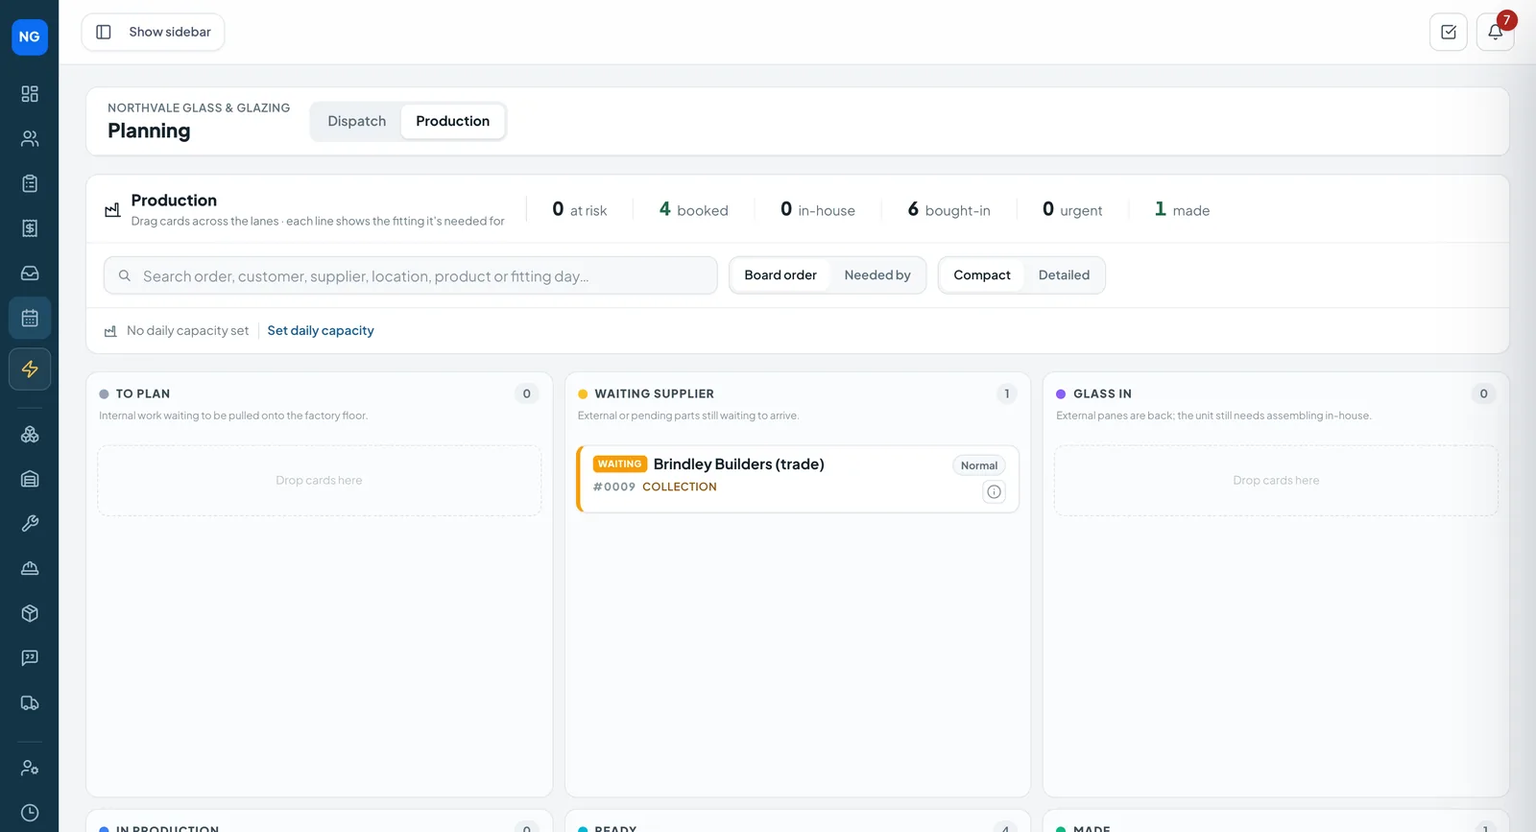
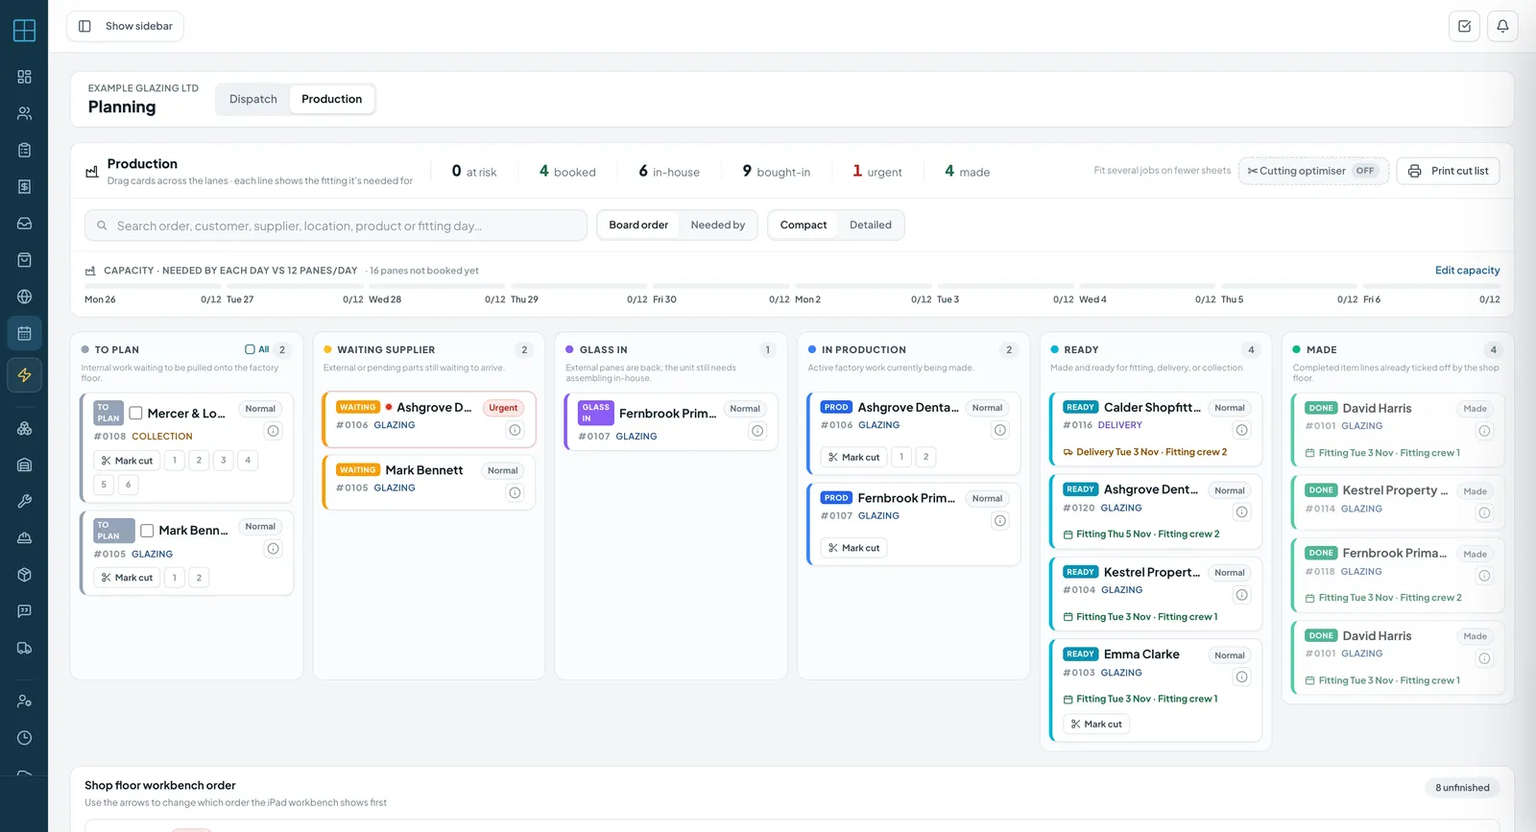
Replace website screenshots with fresh captures from the demo (Example Glazing Ltd)
New captures from demo.coglass.app (read-only), Tue 3 Nov 2026 launch week:
production board with cards in all six lanes, vehicles with 3 vans and MOT
dates, planner day view, iPad week view, orders list, work bench with the
drawing beside the line, tracking page, quote + matching invoice PDFs for
order 0101 / INV-0042. Re-rendered og-image.png (coglass.net).

IMG sizes and alt text updated; home-page PDF figures now read sizes from IMG.

diff --git a/au/index.html b/au/index.html
@@ -92,7 +92,7 @@
       <ul class="checks"><li>Full double- and triple-glazed unit make-ups, cavity set per line</li><li>Edgework, toughening, laminating — in-house or bought in</li><li>Trade price lists and quantity breaks applied automatically</li></ul>
       <a class="btn" href="/coglass-feature-glass-specs.html">See glass specs</a>
     </div>
-    <div class="framed"><img src="/assets/img/bench-drawing.webp" alt="An arched double-glazed unit on the work bench, drawn with Georgian bars and two drilled holes" width="1400" height="638" loading="lazy" decoding="async"></div>
+    <div class="framed"><img src="/assets/img/bench-drawing.webp" alt="A double-glazed unit on the work bench, with its drawing open beside the line: Georgian bars 3×2 and two drilled holes" width="1400" height="638" loading="lazy" decoding="async"></div>
   </div>
 </section>
 <section class="sect">
@@ -104,7 +104,7 @@
       <ul class="checks"><li>Barcode labels for every pane</li><li>Sealed-unit steps checked pane by pane</li><li>Keeps working when the workshop wifi drops</li></ul>
       <a class="btn" href="/coglass-feature-production.html">See production</a>
     </div>
-    <div class="framed"><img src="/assets/img/production.webp" alt="The production board with lanes from To plan to Made" width="1600" height="867" loading="lazy" decoding="async"></div>
+    <div class="framed"><img src="/assets/img/production.webp" alt="The production board with jobs in every lane, from To plan to Made" width="1600" height="867" loading="lazy" decoding="async"></div>
   </div>
 </section>
 <section class="sect alt">
@@ -116,7 +116,7 @@
       <ul class="checks"><li>Quotes, the planner and invoices in the browser</li><li>Cut list, scan to advance and sealed-unit steps in the workshop</li><li>Counter sales signed for on screen</li></ul>
       <a class="btn" href="/coglass-ipad.html">Coglass on the iPad</a>
     </div>
-    <div class="ipad-frame"><img src="/assets/img/ipad-planner.webp" alt="The Coglass planner open in a browser at iPad size: a day of fittings, surveys and a delivery across three people" width="1600" height="1112" loading="lazy" decoding="async"></div>
+    <div class="ipad-frame"><img src="/assets/img/ipad-planner.webp" alt="The Coglass planner open in a browser at iPad size: a week of fittings, surveys and a delivery across three teams" width="1600" height="1112" loading="lazy" decoding="async"></div>
   </div>
 </section>
 <section class="sect alt" id="features">

diff --git a/bw/index.html b/bw/index.html
@@ -92,7 +92,7 @@
       <ul class="checks"><li>Full double- and triple-glazed unit make-ups, cavity set per line</li><li>Edgework, toughening, laminating — in-house or bought in</li><li>Trade price lists and quantity breaks applied automatically</li></ul>
       <a class="btn" href="/coglass-feature-glass-specs.html">See glass specs</a>
     </div>
-    <div class="framed"><img src="/assets/img/bench-drawing.webp" alt="An arched double-glazed unit on the work bench, drawn with Georgian bars and two drilled holes" width="1400" height="638" loading="lazy" decoding="async"></div>
+    <div class="framed"><img src="/assets/img/bench-drawing.webp" alt="A double-glazed unit on the work bench, with its drawing open beside the line: Georgian bars 3×2 and two drilled holes" width="1400" height="638" loading="lazy" decoding="async"></div>
   </div>
 </section>
 <section class="sect">
@@ -104,7 +104,7 @@
       <ul class="checks"><li>Barcode labels for every pane</li><li>Sealed-unit steps checked pane by pane</li><li>Keeps working when the workshop wifi drops</li></ul>
       <a class="btn" href="/coglass-feature-production.html">See production</a>
     </div>
-    <div class="framed"><img src="/assets/img/production.webp" alt="The production board with lanes from To plan to Made" width="1600" height="867" loading="lazy" decoding="async"></div>
+    <div class="framed"><img src="/assets/img/production.webp" alt="The production board with jobs in every lane, from To plan to Made" width="1600" height="867" loading="lazy" decoding="async"></div>
   </div>
 </section>
 <section class="sect alt">
@@ -116,7 +116,7 @@
       <ul class="checks"><li>Quotes, the planner and invoices in the browser</li><li>Cut list, scan to advance and sealed-unit steps in the workshop</li><li>Counter sales signed for on screen</li></ul>
       <a class="btn" href="/coglass-ipad.html">Coglass on the iPad</a>
     </div>
-    <div class="ipad-frame"><img src="/assets/img/ipad-planner.webp" alt="The Coglass planner open in a browser at iPad size: a day of fittings, surveys and a delivery across three people" width="1600" height="1112" loading="lazy" decoding="async"></div>
+    <div class="ipad-frame"><img src="/assets/img/ipad-planner.webp" alt="The Coglass planner open in a browser at iPad size: a week of fittings, surveys and a delivery across three teams" width="1600" height="1112" loading="lazy" decoding="async"></div>
   </div>
 </section>
 <section class="sect alt" id="features">

diff --git a/ie/index.html b/ie/index.html
@@ -92,7 +92,7 @@
       <ul class="checks"><li>Full double- and triple-glazed unit make-ups, cavity set per line</li><li>Edgework, toughening, laminating — in-house or bought in</li><li>Trade price lists and quantity breaks applied automatically</li></ul>
       <a class="btn" href="/coglass-feature-glass-specs.html">See glass specs</a>
     </div>
-    <div class="framed"><img src="/assets/img/bench-drawing.webp" alt="An arched double-glazed unit on the work bench, drawn with Georgian bars and two drilled holes" width="1400" height="638" loading="lazy" decoding="async"></div>
+    <div class="framed"><img src="/assets/img/bench-drawing.webp" alt="A double-glazed unit on the work bench, with its drawing open beside the line: Georgian bars 3×2 and two drilled holes" width="1400" height="638" loading="lazy" decoding="async"></div>
   </div>
 </section>
 <section class="sect">
@@ -104,7 +104,7 @@
       <ul class="checks"><li>Barcode labels for every pane</li><li>Sealed-unit steps checked pane by pane</li><li>Keeps working when the workshop wifi drops</li></ul>
       <a class="btn" href="/coglass-feature-production.html">See production</a>
     </div>
-    <div class="framed"><img src="/assets/img/production.webp" alt="The production board with lanes from To plan to Made" width="1600" height="867" loading="lazy" decoding="async"></div>
+    <div class="framed"><img src="/assets/img/production.webp" alt="The production board with jobs in every lane, from To plan to Made" width="1600" height="867" loading="lazy" decoding="async"></div>
   </div>
 </section>
 <section class="sect alt">
@@ -116,7 +116,7 @@
       <ul class="checks"><li>Quotes, the planner and invoices in the browser</li><li>Cut list, scan to advance and sealed-unit steps in the workshop</li><li>Counter sales signed for on screen</li></ul>
       <a class="btn" href="/coglass-ipad.html">Coglass on the iPad</a>
     </div>
-    <div class="ipad-frame"><img src="/assets/img/ipad-planner.webp" alt="The Coglass planner open in a browser at iPad size: a day of fittings, surveys and a delivery across three people" width="1600" height="1112" loading="lazy" decoding="async"></div>
+    <div class="ipad-frame"><img src="/assets/img/ipad-planner.webp" alt="The Coglass planner open in a browser at iPad size: a week of fittings, surveys and a delivery across three teams" width="1600" height="1112" loading="lazy" decoding="async"></div>
   </div>
 </section>
 <section class="sect alt" id="features">

diff --git a/mt/index.html b/mt/index.html
@@ -92,7 +92,7 @@
       <ul class="checks"><li>Full double- and triple-glazed unit make-ups, cavity set per line</li><li>Edgework, toughening, laminating — in-house or bought in</li><li>Trade price lists and quantity breaks applied automatically</li></ul>
       <a class="btn" href="/coglass-feature-glass-specs.html">See glass specs</a>
     </div>
-    <div class="framed"><img src="/assets/img/bench-drawing.webp" alt="An arched double-glazed unit on the work bench, drawn with Georgian bars and two drilled holes" width="1400" height="638" loading="lazy" decoding="async"></div>
+    <div class="framed"><img src="/assets/img/bench-drawing.webp" alt="A double-glazed unit on the work bench, with its drawing open beside the line: Georgian bars 3×2 and two drilled holes" width="1400" height="638" loading="lazy" decoding="async"></div>
   </div>
 </section>
 <section class="sect">
@@ -104,7 +104,7 @@
       <ul class="checks"><li>Barcode labels for every pane</li><li>Sealed-unit steps checked pane by pane</li><li>Keeps working when the workshop wifi drops</li></ul>
       <a class="btn" href="/coglass-feature-production.html">See production</a>
     </div>
-    <div class="framed"><img src="/assets/img/production.webp" alt="The production board with lanes from To plan to Made" width="1600" height="867" loading="lazy" decoding="async"></div>
+    <div class="framed"><img src="/assets/img/production.webp" alt="The production board with jobs in every lane, from To plan to Made" width="1600" height="867" loading="lazy" decoding="async"></div>
   </div>
 </section>
 <section class="sect alt">
@@ -116,7 +116,7 @@
       <ul class="checks"><li>Quotes, the planner and invoices in the browser</li><li>Cut list, scan to advance and sealed-unit steps in the workshop</li><li>Counter sales signed for on screen</li></ul>
       <a class="btn" href="/coglass-ipad.html">Coglass on the iPad</a>
     </div>
-    <div class="ipad-frame"><img src="/assets/img/ipad-planner.webp" alt="The Coglass planner open in a browser at iPad size: a day of fittings, surveys and a delivery across three people" width="1600" height="1112" loading="lazy" decoding="async"></div>
+    <div class="ipad-frame"><img src="/assets/img/ipad-planner.webp" alt="The Coglass planner open in a browser at iPad size: a week of fittings, surveys and a delivery across three teams" width="1600" height="1112" loading="lazy" decoding="async"></div>
   </div>
 </section>
 <section class="sect alt" id="features">

diff --git a/na/index.html b/na/index.html
@@ -92,7 +92,7 @@
       <ul class="checks"><li>Full double- and triple-glazed unit make-ups, cavity set per line</li><li>Edgework, toughening, laminating — in-house or bought in</li><li>Trade price lists and quantity breaks applied automatically</li></ul>
       <a class="btn" href="/coglass-feature-glass-specs.html">See glass specs</a>
     </div>
-    <div class="framed"><img src="/assets/img/bench-drawing.webp" alt="An arched double-glazed unit on the work bench, drawn with Georgian bars and two drilled holes" width="1400" height="638" loading="lazy" decoding="async"></div>
+    <div class="framed"><img src="/assets/img/bench-drawing.webp" alt="A double-glazed unit on the work bench, with its drawing open beside the line: Georgian bars 3×2 and two drilled holes" width="1400" height="638" loading="lazy" decoding="async"></div>
   </div>
 </section>
 <section class="sect">
@@ -104,7 +104,7 @@
       <ul class="checks"><li>Barcode labels for every pane</li><li>Sealed-unit steps checked pane by pane</li><li>Keeps working when the workshop wifi drops</li></ul>
       <a class="btn" href="/coglass-feature-production.html">See production</a>
     </div>
-    <div class="framed"><img src="/assets/img/production.webp" alt="The production board with lanes from To plan to Made" width="1600" height="867" loading="lazy" decoding="async"></div>
+    <div class="framed"><img src="/assets/img/production.webp" alt="The production board with jobs in every lane, from To plan to Made" width="1600" height="867" loading="lazy" decoding="async"></div>
   </div>
 </section>
 <section class="sect alt">
@@ -116,7 +116,7 @@
       <ul class="checks"><li>Quotes, the planner and invoices in the browser</li><li>Cut list, scan to advance and sealed-unit steps in the workshop</li><li>Counter sales signed for on screen</li></ul>
       <a class="btn" href="/coglass-ipad.html">Coglass on the iPad</a>
     </div>
-    <div class="ipad-frame"><img src="/assets/img/ipad-planner.webp" alt="The Coglass planner open in a browser at iPad size: a day of fittings, surveys and a delivery across three people" width="1600" height="1112" loading="lazy" decoding="async"></div>
+    <div class="ipad-frame"><img src="/assets/img/ipad-planner.webp" alt="The Coglass planner open in a browser at iPad size: a week of fittings, surveys and a delivery across three teams" width="1600" height="1112" loading="lazy" decoding="async"></div>
   </div>
 </section>
 <section class="sect alt" id="features">

diff --git a/nz/index.html b/nz/index.html
@@ -92,7 +92,7 @@
       <ul class="checks"><li>Full double- and triple-glazed unit make-ups, cavity set per line</li><li>Edgework, toughening, laminating — in-house or bought in</li><li>Trade price lists and quantity breaks applied automatically</li></ul>
       <a class="btn" href="/coglass-feature-glass-specs.html">See glass specs</a>
     </div>
-    <div class="framed"><img src="/assets/img/bench-drawing.webp" alt="An arched double-glazed unit on the work bench, drawn with Georgian bars and two drilled holes" width="1400" height="638" loading="lazy" decoding="async"></div>
+    <div class="framed"><img src="/assets/img/bench-drawing.webp" alt="A double-glazed unit on the work bench, with its drawing open beside the line: Georgian bars 3×2 and two drilled holes" width="1400" height="638" loading="lazy" decoding="async"></div>
   </div>
 </section>
 <section class="sect">
@@ -104,7 +104,7 @@
       <ul class="checks"><li>Barcode labels for every pane</li><li>Sealed-unit steps checked pane by pane</li><li>Keeps working when the workshop wifi drops</li></ul>
       <a class="btn" href="/coglass-feature-production.html">See production</a>
     </div>
-    <div class="framed"><img src="/assets/img/production.webp" alt="The production board with lanes from To plan to Made" width="1600" height="867" loading="lazy" decoding="async"></div>
+    <div class="framed"><img src="/assets/img/production.webp" alt="The production board with jobs in every lane, from To plan to Made" width="1600" height="867" loading="lazy" decoding="async"></div>
   </div>
 </section>
 <section class="sect alt">
@@ -116,7 +116,7 @@
       <ul class="checks"><li>Quotes, the planner and invoices in the browser</li><li>Cut list, scan to advance and sealed-unit steps in the workshop</li><li>Counter sales signed for on screen</li></ul>
       <a class="btn" href="/coglass-ipad.html">Coglass on the iPad</a>
     </div>
-    <div class="ipad-frame"><img src="/assets/img/ipad-planner.webp" alt="The Coglass planner open in a browser at iPad size: a day of fittings, surveys and a delivery across three people" width="1600" height="1112" loading="lazy" decoding="async"></div>
+    <div class="ipad-frame"><img src="/assets/img/ipad-planner.webp" alt="The Coglass planner open in a browser at iPad size: a week of fittings, surveys and a delivery across three teams" width="1600" height="1112" loading="lazy" decoding="async"></div>
   </div>
 </section>
 <section class="sect alt" id="features">

diff --git a/uk/index.html b/uk/index.html
@@ -92,7 +92,7 @@
       <ul class="checks"><li>Full double- and triple-glazed unit make-ups, cavity set per line</li><li>Edgework, toughening, laminating — in-house or bought in</li><li>Trade price lists and quantity breaks applied automatically</li></ul>
       <a class="btn" href="/coglass-feature-glass-specs.html">See glass specs</a>
     </div>
-    <div class="framed"><img src="/assets/img/bench-drawing.webp" alt="An arched double-glazed unit on the work bench, drawn with Georgian bars and two drilled holes" width="1400" height="638" loading="lazy" decoding="async"></div>
+    <div class="framed"><img src="/assets/img/bench-drawing.webp" alt="A double-glazed unit on the work bench, with its drawing open beside the line: Georgian bars 3×2 and two drilled holes" width="1400" height="638" loading="lazy" decoding="async"></div>
   </div>
 </section>
 <section class="sect">
@@ -104,7 +104,7 @@
       <ul class="checks"><li>Barcode labels for every pane</li><li>Sealed-unit steps checked pane by pane</li><li>Keeps working when the workshop wifi drops</li></ul>
       <a class="btn" href="/coglass-feature-production.html">See production</a>
     </div>
-    <div class="framed"><img src="/assets/img/production.webp" alt="The production board with lanes from To plan to Made" width="1600" height="867" loading="lazy" decoding="async"></div>
+    <div class="framed"><img src="/assets/img/production.webp" alt="The production board with jobs in every lane, from To plan to Made" width="1600" height="867" loading="lazy" decoding="async"></div>
   </div>
 </section>
 <section class="sect alt">
@@ -116,7 +116,7 @@
       <ul class="checks"><li>Quotes, the planner and invoices in the browser</li><li>Cut list, scan to advance and sealed-unit steps in the workshop</li><li>Counter sales signed for on screen</li></ul>
       <a class="btn" href="/coglass-ipad.html">Coglass on the iPad</a>
     </div>
-    <div class="ipad-frame"><img src="/assets/img/ipad-planner.webp" alt="The Coglass planner open in a browser at iPad size: a day of fittings, surveys and a delivery across three people" width="1600" height="1112" loading="lazy" decoding="async"></div>
+    <div class="ipad-frame"><img src="/assets/img/ipad-planner.webp" alt="The Coglass planner open in a browser at iPad size: a week of fittings, surveys and a delivery across three teams" width="1600" height="1112" loading="lazy" decoding="async"></div>
   </div>
 </section>
 <section class="sect alt" id="features">

diff --git a/za/index.html b/za/index.html
@@ -92,7 +92,7 @@
       <ul class="checks"><li>Full double- and triple-glazed unit make-ups, cavity set per line</li><li>Edgework, toughening, laminating — in-house or bought in</li><li>Trade price lists and quantity breaks applied automatically</li></ul>
       <a class="btn" href="/coglass-feature-glass-specs.html">See glass specs</a>
     </div>
-    <div class="framed"><img src="/assets/img/bench-drawing.webp" alt="An arched double-glazed unit on the work bench, drawn with Georgian bars and two drilled holes" width="1400" height="638" loading="lazy" decoding="async"></div>
+    <div class="framed"><img src="/assets/img/bench-drawing.webp" alt="A double-glazed unit on the work bench, with its drawing open beside the line: Georgian bars 3×2 and two drilled holes" width="1400" height="638" loading="lazy" decoding="async"></div>
   </div>
 </section>
 <section class="sect">
@@ -104,7 +104,7 @@
       <ul class="checks"><li>Barcode labels for every pane</li><li>Sealed-unit steps checked pane by pane</li><li>Keeps working when the workshop wifi drops</li></ul>
       <a class="btn" href="/coglass-feature-production.html">See production</a>
     </div>
-    <div class="framed"><img src="/assets/img/production.webp" alt="The production board with lanes from To plan to Made" width="1600" height="867" loading="lazy" decoding="async"></div>
+    <div class="framed"><img src="/assets/img/production.webp" alt="The production board with jobs in every lane, from To plan to Made" width="1600" height="867" loading="lazy" decoding="async"></div>
   </div>
 </section>
 <section class="sect alt">
@@ -116,7 +116,7 @@
       <ul class="checks"><li>Quotes, the planner and invoices in the browser</li><li>Cut list, scan to advance and sealed-unit steps in the workshop</li><li>Counter sales signed for on screen</li></ul>
       <a class="btn" href="/coglass-ipad.html">Coglass on the iPad</a>
     </div>
-    <div class="ipad-frame"><img src="/assets/img/ipad-planner.webp" alt="The Coglass planner open in a browser at iPad size: a day of fittings, surveys and a delivery across three people" width="1600" height="1112" loading="lazy" decoding="async"></div>
+    <div class="ipad-frame"><img src="/assets/img/ipad-planner.webp" alt="The Coglass planner open in a browser at iPad size: a week of fittings, surveys and a delivery across three teams" width="1600" height="1112" loading="lazy" decoding="async"></div>
   </div>
 </section>
 <section class="sect alt" id="features">

diff --git a/index.html b/index.html
@@ -90,8 +90,8 @@
   <div class="wrap">
     <div class="sect-head"><span class="kicker">What your customers receive</span><h2>Quotes and invoices that look the part</h2><p>Your logo and details, the drawing on every line, and a link to accept the quote online.</p></div>
     <div class="docs">
-      <figure style="margin:0"><div class="doc"><img src="/assets/img/quote-pdf.webp" alt="A quotation PDF with the arched unit drawn on its line" width="900" height="855" loading="lazy" decoding="async"></div><figcaption class="cap">A real quotation PDF from a UK demo account with made-up details.</figcaption></figure>
-      <figure style="margin:0"><div class="doc"><img src="/assets/img/invoice-pdf.webp" alt="An invoice PDF with totals and balance due" width="900" height="643" loading="lazy" decoding="async"></div><figcaption class="cap">The matching invoice.</figcaption></figure>
+      <figure style="margin:0"><div class="doc"><img src="/assets/img/quote-pdf.webp" alt="A quotation PDF with the unit drawn on its line and a link to accept it online" width="1200" height="1140" loading="lazy" decoding="async"></div><figcaption class="cap">A real quotation PDF from a UK demo account with made-up details.</figcaption></figure>
+      <figure style="margin:0"><div class="doc"><img src="/assets/img/invoice-pdf.webp" alt="The matching invoice PDF for the same job, with an amount on every line, totals and balance due" width="1200" height="857" loading="lazy" decoding="async"></div><figcaption class="cap">The matching invoice.</figcaption></figure>
     </div>
   </div>
 </section>

diff --git a/coglass-ipad.html b/coglass-ipad.html
@@ -58,7 +58,7 @@
       <p class="fine">The app is for staff of companies that use Coglass — you sign in with the login your company gives you.</p>
       <ul class="trust"><li><svg viewBox="0 0 16 16" aria-hidden="true"><path d="M3 8.5l3 3 7-7"/></svg>Office, workshop, counter &amp; site</li><li><svg viewBox="0 0 16 16" aria-hidden="true"><path d="M3 8.5l3 3 7-7"/></svg>Works offline in the workshop and on site</li><li><svg viewBox="0 0 16 16" aria-hidden="true"><path d="M3 8.5l3 3 7-7"/></svg>Every feature on every plan</li></ul>
     </div>
-    <div class="visual"><div class="ipad-frame"><img src="/assets/img/ipad-planner.webp" alt="The Coglass planner open in a browser at iPad size: a day of fittings, surveys and a delivery across three people" width="1600" height="1112" fetchpriority="high"></div><p class="cap">The real planner in a browser at iPad landscape size (1180 × 820), on a local demo account with made-up details.</p></div>
+    <div class="visual"><div class="ipad-frame"><img src="/assets/img/ipad-planner.webp" alt="The Coglass planner open in a browser at iPad size: a week of fittings, surveys and a delivery across three teams" width="1600" height="1112" fetchpriority="high"></div><p class="cap">The real planner in a browser at iPad landscape size (1180 × 820), on a local demo account with made-up details.</p></div>
   </div>
 </section>
 <section class="strip" aria-label="Four places, one iPad">

diff --git a/coglass-feature-tracking.html b/coglass-feature-tracking.html
@@ -58,7 +58,7 @@
       
       <ul class="trust"><li><svg viewBox="0 0 16 16" aria-hidden="true"><path d="M3 8.5l3 3 7-7"/></svg>No setup fee</li><li><svg viewBox="0 0 16 16" aria-hidden="true"><path d="M3 8.5l3 3 7-7"/></svg>iPhone, Android &amp; web</li><li><svg viewBox="0 0 16 16" aria-hidden="true"><path d="M3 8.5l3 3 7-7"/></svg>Every feature on every plan</li></ul>
     </div>
-    <div class="visual"><div style="max-width:300px;margin:0 auto 40px;border-radius:36px;background:#0d1b22;padding:10px;box-shadow:0 18px 40px rgba(0,0,0,.25)"><img src="/assets/img/tracking-page.webp" alt="A customer tracking page on a phone: fitting today, stop 1 of 2, an expected arrival window and buttons to message the office or the fitter" width="600" height="1077" loading="lazy" decoding="async" style="display:block;width:100%;height:auto;border-radius:28px"></div></div>
+    <div class="visual"><div style="max-width:300px;margin:0 auto 40px;border-radius:36px;background:#0d1b22;padding:10px;box-shadow:0 18px 40px rgba(0,0,0,.25)"><img src="/assets/img/tracking-page.webp" alt="A customer tracking page on a phone: the booked fitting day and time, and buttons to message the office or the fitter" width="600" height="1077" loading="lazy" decoding="async" style="display:block;width:100%;height:auto;border-radius:28px"></div></div>
   </div>
 </section>
 <section class="sect">

diff --git a/coglass-feature-glass-specs.html b/coglass-feature-glass-specs.html
@@ -58,7 +58,7 @@
       
       <ul class="trust"><li><svg viewBox="0 0 16 16" aria-hidden="true"><path d="M3 8.5l3 3 7-7"/></svg>No setup fee</li><li><svg viewBox="0 0 16 16" aria-hidden="true"><path d="M3 8.5l3 3 7-7"/></svg>iPhone, Android &amp; web</li><li><svg viewBox="0 0 16 16" aria-hidden="true"><path d="M3 8.5l3 3 7-7"/></svg>Every feature on every plan</li></ul>
     </div>
-    <div class="visual"><div class="shot"><div class="bar" aria-hidden="true"><i></i><i></i><i></i></div><img src="/assets/img/bench-drawing.webp" alt="An arched double-glazed unit on the work bench, drawn with Georgian bars and two drilled holes" width="1400" height="638" loading="lazy" decoding="async"></div></div>
+    <div class="visual"><div class="shot"><div class="bar" aria-hidden="true"><i></i><i></i><i></i></div><img src="/assets/img/bench-drawing.webp" alt="A double-glazed unit on the work bench, with its drawing open beside the line: Georgian bars 3×2 and two drilled holes" width="1400" height="638" loading="lazy" decoding="async"></div></div>
   </div>
 </section>
 <section class="sect">
